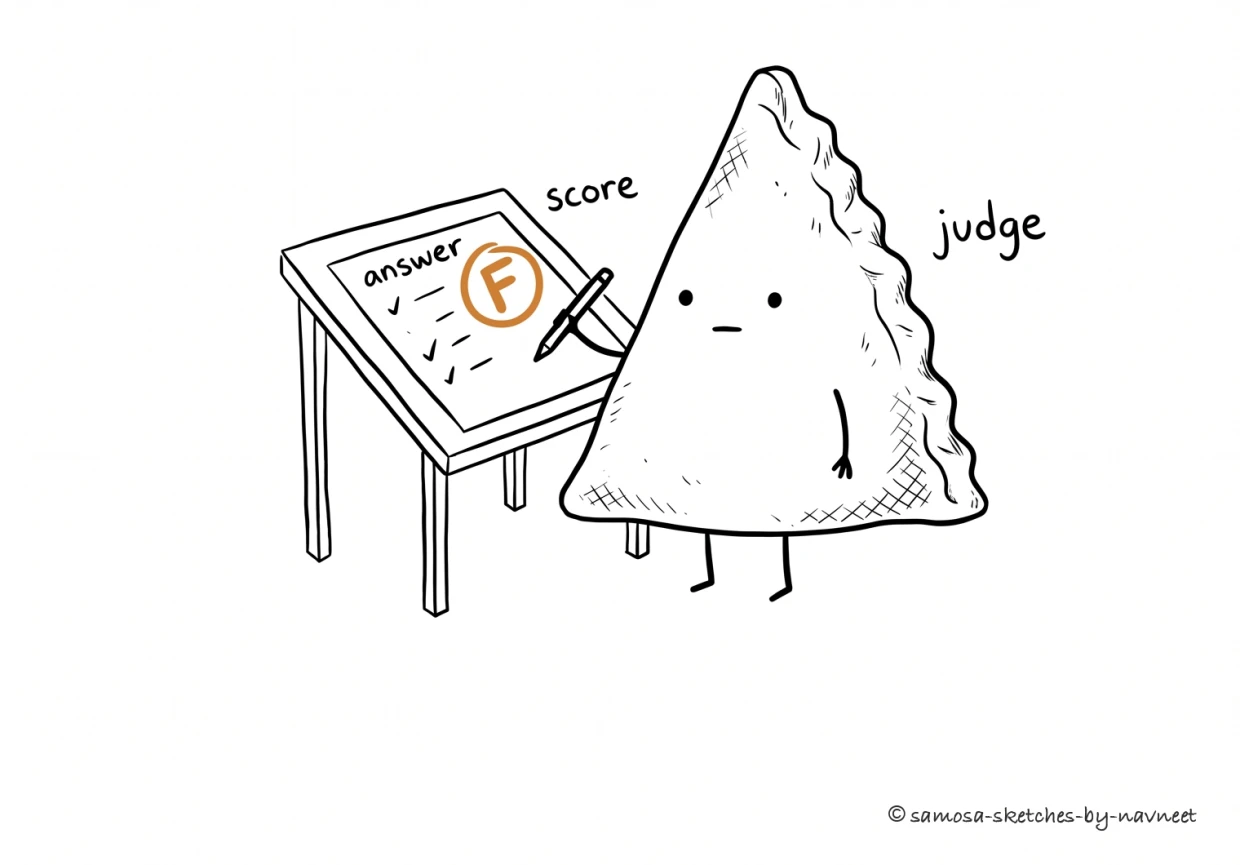
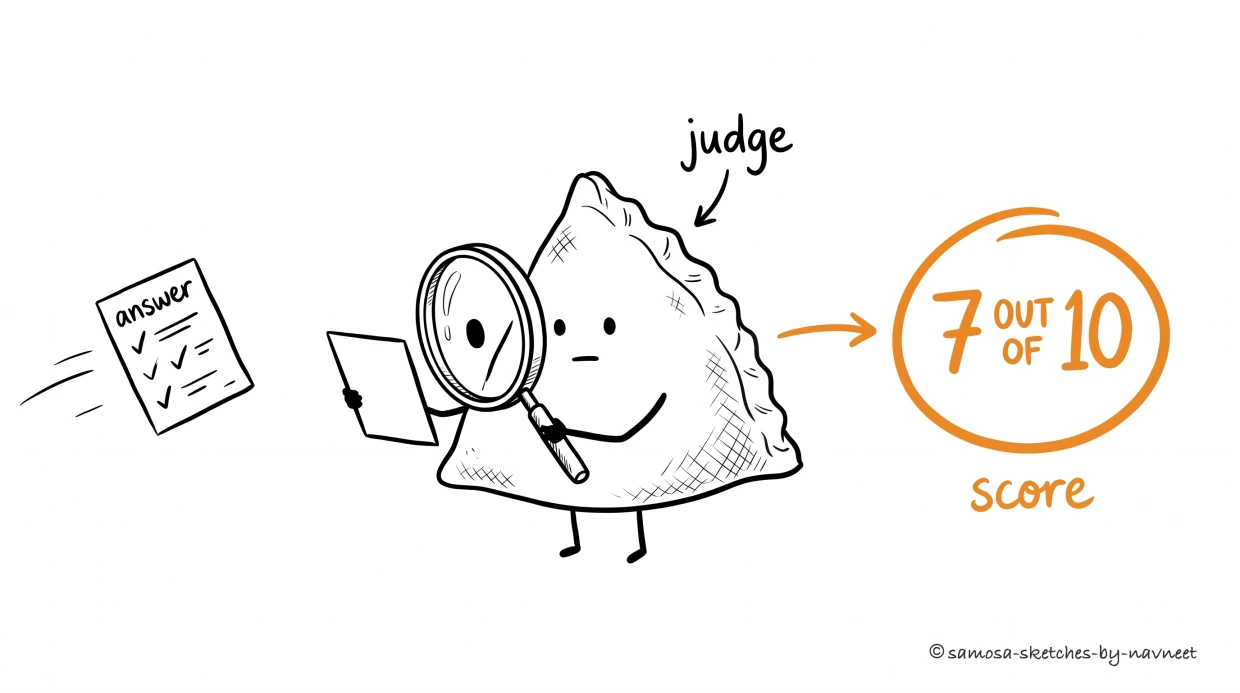
Judge sketch: regenerate with active left-to-right composition
The prior version had the samosa standing passively beside a desk while a
pen floated — weak action and off-aspect after cropping, inconsistent with
the set's 'samosa actively operating something' grammar. Regenerated 16:9:
answer sheet flows in, samosa inspects it through a magnifying glass, and
assigns an orange 7/10 verdict. Fills the frame, matches RAG/vibe flow.
Alt text updated.

diff --git a/evaluation/llm-as-judge.html b/evaluation/llm-as-judge.html
@@ -131,7 +131,7 @@
 
     <figure class="sketch-figure">
       <img src="../assets/sketches/llm-as-judge.webp"
-           alt="A samosa examiner leans over a desk, pen in hand, marking an answer sheet and stamping a grade on it in orange.">
+           alt="An answer sheet flows in from the left; a samosa inspects it through a magnifying glass and assigns a verdict shown on the right as a bold orange score, 7 out of 10.">
       <figcaption>LLM-as-judge: one model marks another's answer against a standard &mdash; grading at machine speed instead of waiting on humans.</figcaption>
     </figure>
 
